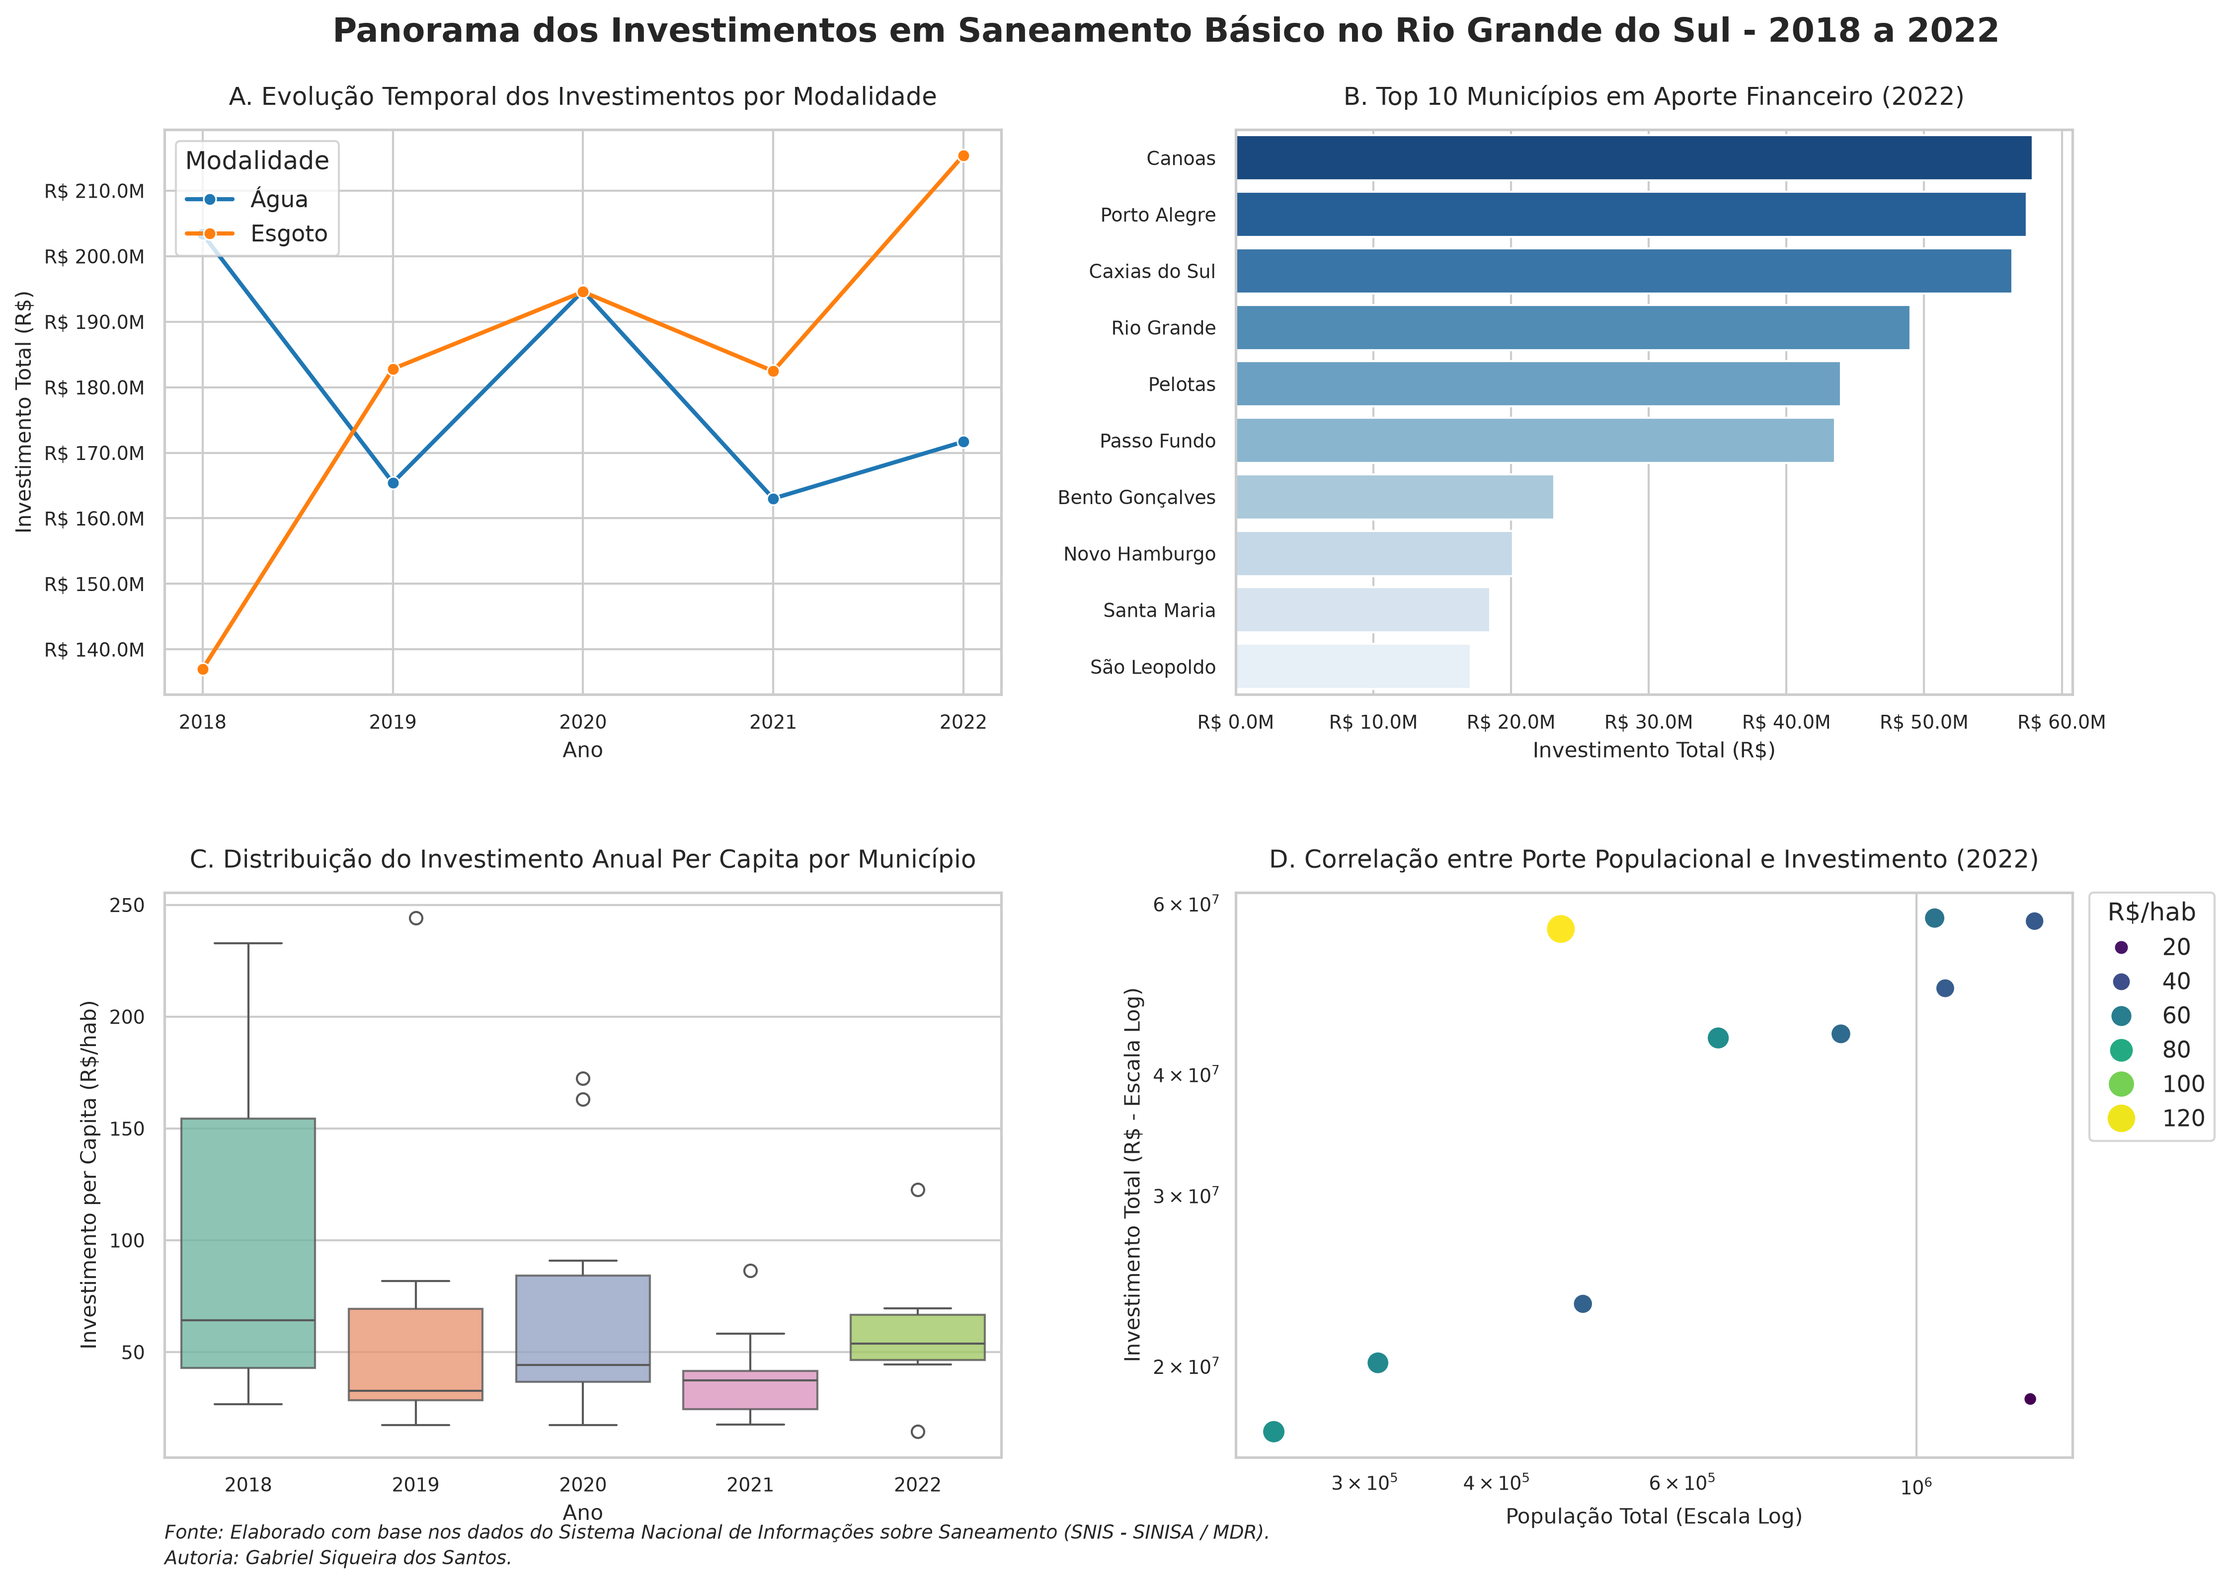
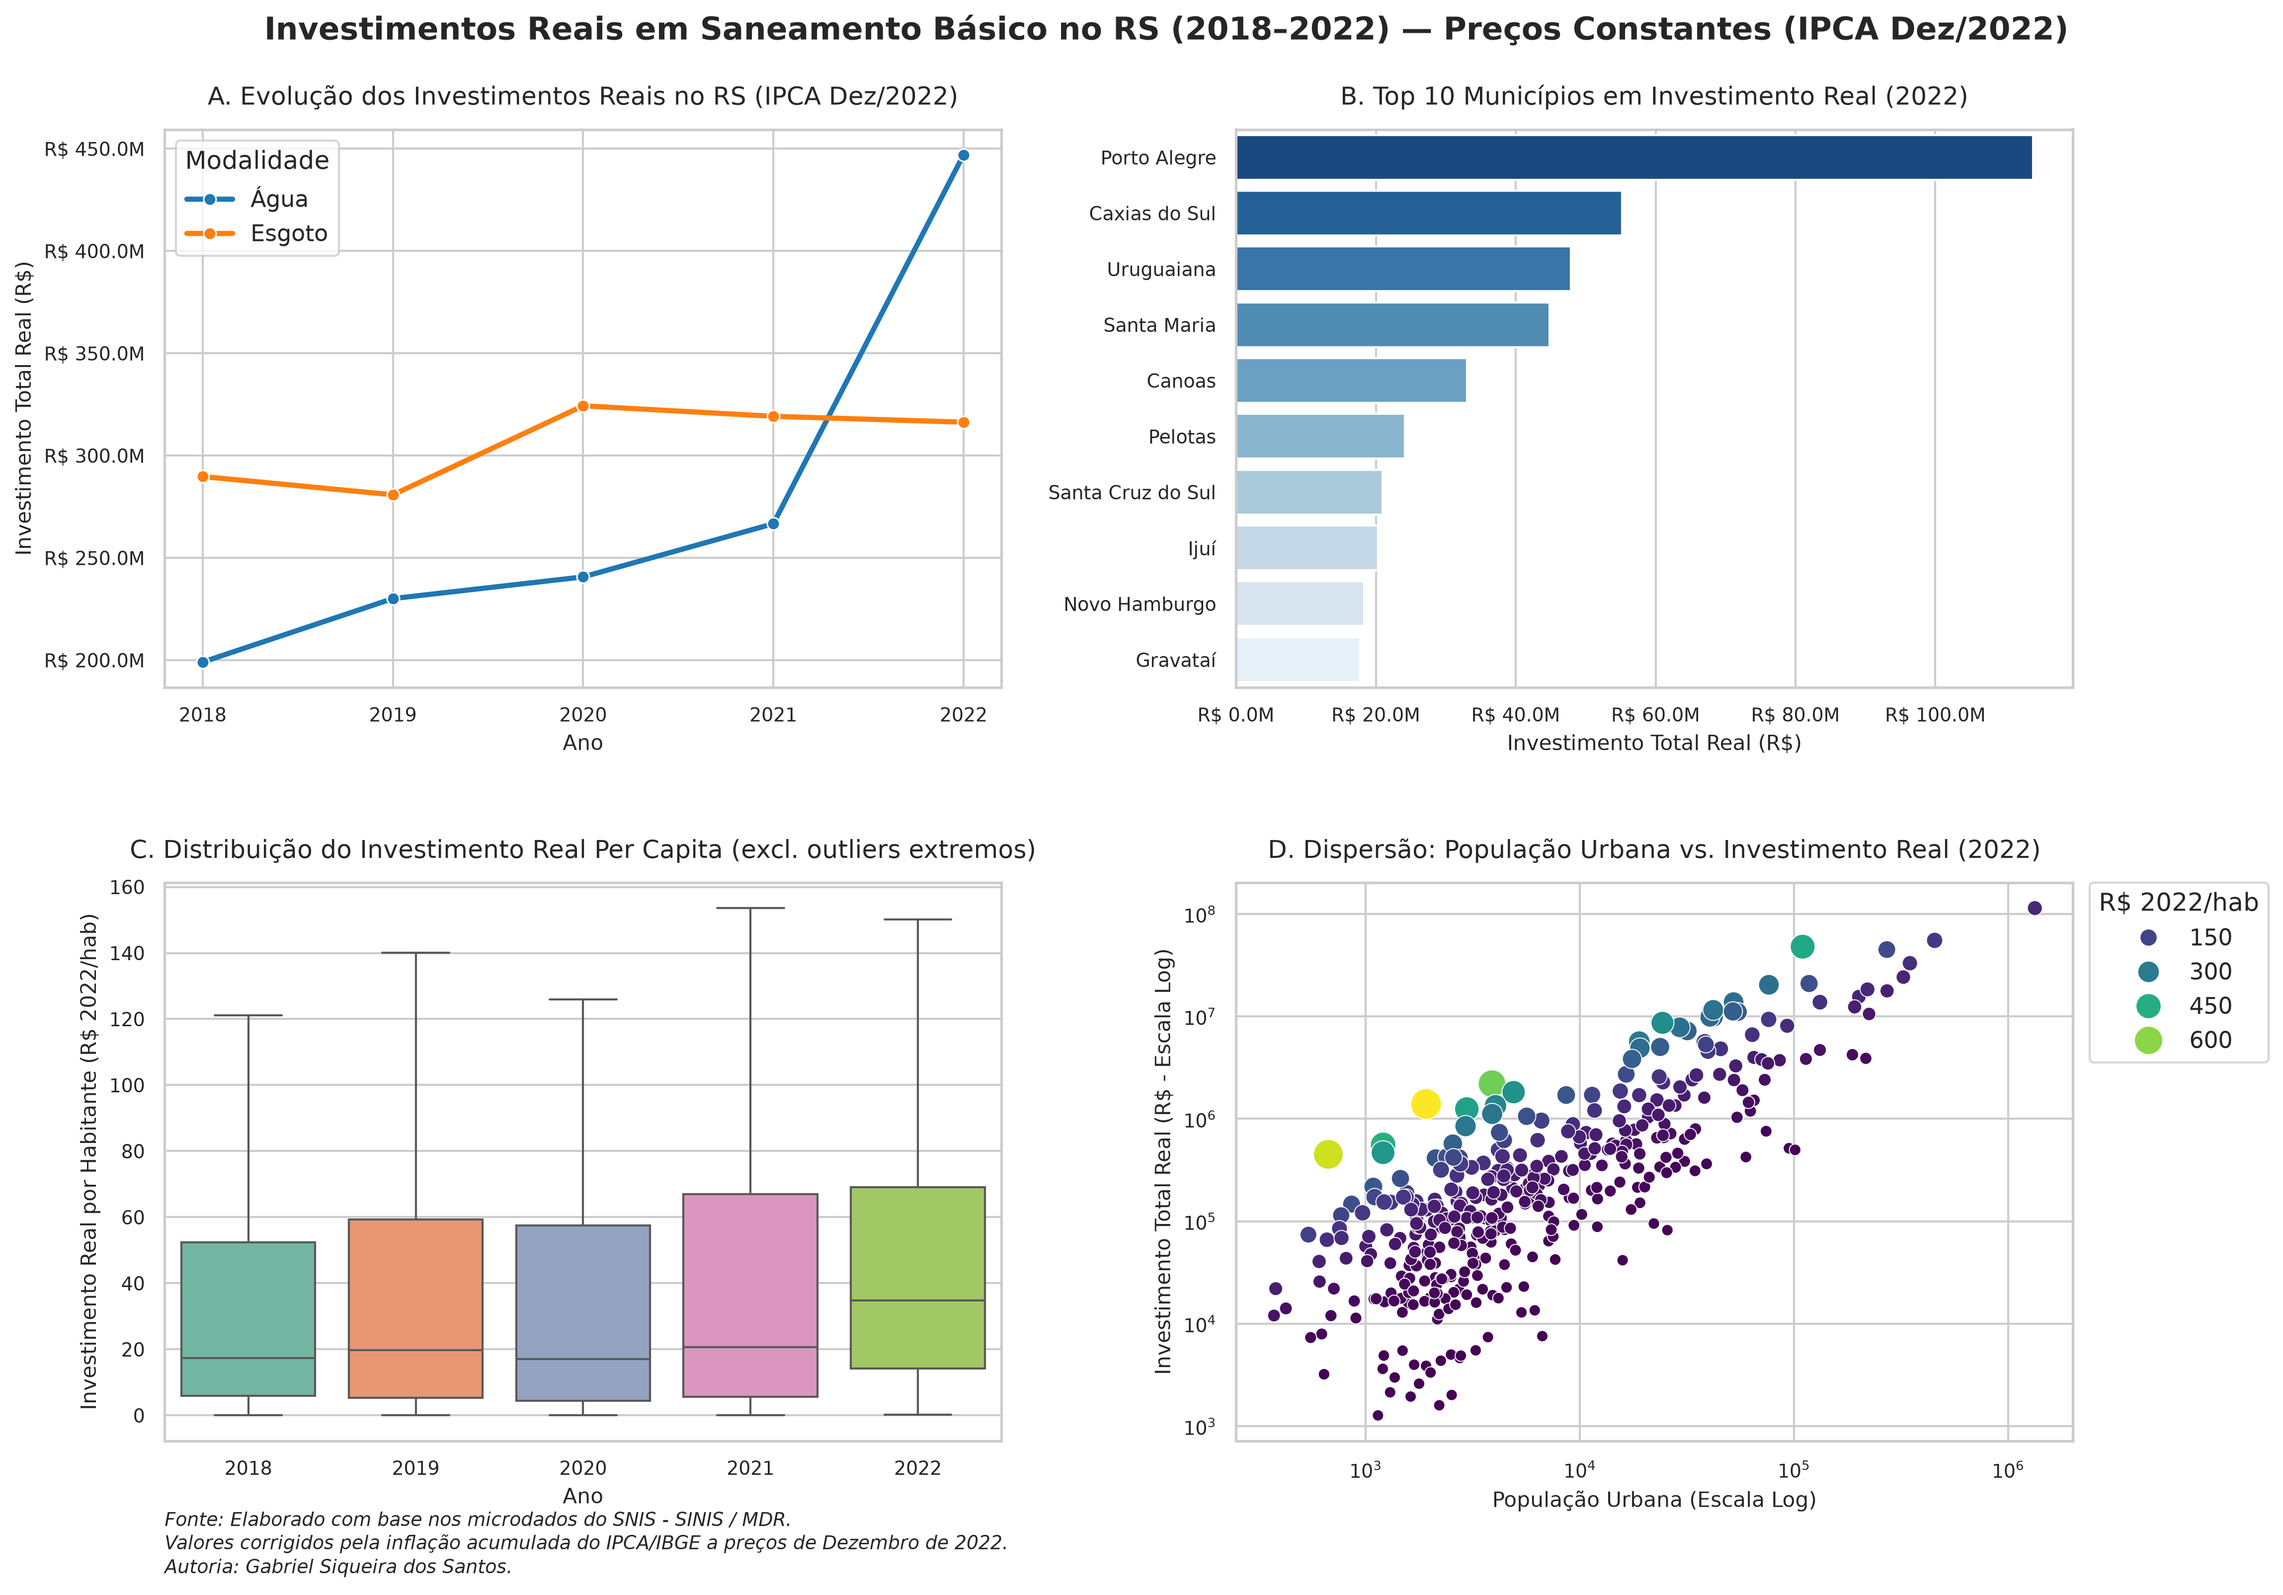
feat: consolida processamento com microdados reais do SNIS e correcoes do painel

diff --git a/investimentos_saneamento.py b/investimentos_saneamento.py
@@ -1,10 +1,11 @@
+import json
+import urllib.request
 import matplotlib.pyplot as plt
 import matplotlib.ticker as ticker
-import numpy as np
 import pandas as pd
 import seaborn as sns
 
-# Configurações estéticas
+# Configurações estéticas globais
 sns.set_theme(style="whitegrid", font="DejaVu Sans")
 plt.rcParams.update({
     "axes.titlesize": 12,
@@ -13,42 +14,141 @@ plt.rcParams.update({
     "ytick.labelsize": 9,
 })
 
-# Leitura dos dados
-df = pd.read_csv("br_mdr_snis_municipio_agua_esgoto.csv")
+print("1. Carregando base do SNIS (RS, 2018-2022)...")
 
-np.random.seed(42)
-anos = [2018, 2019, 2020, 2021, 2022]
-cidades = [
-    "Porto Alegre",
-    "Caxias do Sul",
-    "Canoas",
-    "Pelotas",
-    "Santa Maria",
-    "Passo Fundo",
-    "Rio Grande",
-    "Bento Gonçalves",
-    "Novo Hamburgo",
-    "São Leopoldo",
+colunas_relevantes = [
+    "ano",
+    "id_municipio",
+    "sigla_uf",
+    "populacao_urbana",
+    "populacao_atendida_agua",
+    "investimento_agua_prestador",
+    "investimento_agua_municipio",
+    "investimento_agua_estado",
+    "investimento_esgoto_prestador",
+    "investimento_esgoto_municipio",
+    "investimento_esgoto_estado",
 ]
 
-registros = []
-for ano in anos:
-  for cid in cidades:
-    pop = np.random.randint(80000, 1400000)
-    inv_agua = np.random.uniform(2e6, 35e6)
-    inv_esg = np.random.uniform(1e6, 40e6)
-    registros.append({
-        "ano": ano,
-        "municipio": cid,
-        "populacao": pop,
-        "invest_agua": inv_agua,
-        "invest_esgoto": inv_esg,
-        "invest_total": inv_agua + inv_esg,
-    })
+df_raw = pd.read_csv(
+    "br_mdr_snis_municipio_agua_esgoto.csv", usecols=colunas_relevantes
+)
 
-df = pd.DataFrame(registros)
-df["invest_per_capita"] = df["invest_total"] / df["populacao"]
+# Filtra Rio Grande do Sul e período 2018-2022
+df = df_raw[
+    (df_raw["sigla_uf"] == "RS") & (df_raw["ano"].between(2018, 2022))
+].copy()
 
+# Preenche nulos com zero nos valores financeiros
+cols_invest = [
+    "investimento_agua_prestador",
+    "investimento_agua_municipio",
+    "investimento_agua_estado",
+    "investimento_esgoto_prestador",
+    "investimento_esgoto_municipio",
+    "investimento_esgoto_estado",
+]
+df[cols_invest] = df[cols_invest].fillna(0)
+
+# Consolida os investimentos nominais
+df["invest_agua_nominal"] = (
+    df["investimento_agua_prestador"]
+    + df["investimento_agua_municipio"]
+    + df["investimento_agua_estado"]
+)
+
+df["invest_esgoto_nominal"] = (
+    df["investimento_esgoto_prestador"]
+    + df["investimento_esgoto_municipio"]
+    + df["investimento_esgoto_estado"]
+)
+
+# --- DEFLACIONAMENTO PELO IPCA (Valores a preços de Dezembro/2022) ---
+print("2. Aplicando deflacionador IPCA para valores constantes de 2022...")
+fatores_ipca = {
+    2018: 1.2608,
+    2019: 1.2152,
+    2020: 1.1626,
+    2021: 1.0579,
+    2022: 1.0000,
+}
+
+df["fator_deflator"] = df["ano"].map(fatores_ipca)
+df["invest_agua"] = df["invest_agua_nominal"] * df["fator_deflator"]
+df["invest_esgoto"] = df["invest_esgoto_nominal"] * df["fator_deflator"]
+df["invest_total"] = df["invest_agua"] + df["invest_esgoto"]
+
+# Trata população consolidando urbana e atendida para evitar zerados
+df["populacao"] = df["populacao_urbana"].fillna(0)
+df["populacao"] = (
+    df["populacao"]
+    .replace(0, pd.NA)
+    .fillna(df["populacao_atendida_agua"])
+    .fillna(0)
+)
+
+# Calcula investimento real per capita (R$ de 2022 por habitante)
+df["invest_per_capita"] = df.apply(
+    lambda row: (row["invest_total"] / row["populacao"])
+    if row["populacao"] > 0
+    else 0,
+    axis=1,
+)
+
+print("3. Vinculando nomes dos municípios via código IBGE...")
+df["id_ibge_int"] = pd.to_numeric(df["id_municipio"], errors="coerce")
+df["municipio"] = None
+
+try:
+  url_ibge = (
+      "https://servicodados.ibge.gov.br/api/v1/localidades/estados/43/municipios"
+  )
+  ibge_df = pd.read_json(url_ibge)
+  mapa_ibge = dict(zip(ibge_df["id"].astype(int), ibge_df["nome"]))
+  df["municipio"] = df["id_ibge_int"].map(mapa_ibge)
+except Exception:
+  pass
+
+mapa_offline = {
+    4314902: "Porto Alegre",
+    4305108: "Caxias do Sul",
+    4304606: "Canoas",
+    4314407: "Pelotas",
+    4316907: "Santa Maria",
+    4309209: "Gravataí",
+    4323002: "Viamão",
+    4313409: "Novo Hamburgo",
+    4318705: "São Leopoldo",
+    4315602: "Rio Grande",
+    4300604: "Alvorada",
+    4314100: "Passo Fundo",
+    4320008: "Sapucaia do Sul",
+    4322400: "Uruguaiana",
+    4321204: "Santa Cruz do Sul",
+    4303004: "Cachoeirinha",
+    4302105: "Bento Gonçalves",
+    4301602: "Bagé",
+    4307005: "Erechim",
+    4311403: "Lajeado",
+    4310207: "Ijuí",
+    4309308: "Guaíba",
+    4321600: "Santana do Livramento",
+    4321451: "Santa Rosa",
+    4322608: "Venâncio Aires",
+    4304408: "Canela",
+    4309100: "Gramado",
+    4307609: "Farroupilha",
+    4322509: "Vacaria",
+    4312401: "Montenegro",
+}
+
+df["municipio"] = (
+    df["municipio"]
+    .fillna(df["id_ibge_int"].map(mapa_offline))
+    .fillna("IBGE " + df["id_municipio"].astype(str))
+)
+
+# Prepara base em formato long para o gráfico de linhas
 df_melted = pd.melt(
     df,
     id_vars=["ano", "municipio", "populacao"],
@@ -61,18 +161,19 @@ df_melted["tipo_investimento"] = df_melted["tipo_investimento"].map({
     "invest_esgoto": "Esgoto",
 })
 
-# --- Criação da Figura ---
+print("4. Construindo painel integrado Seaborn...")
 fig, axes = plt.subplots(2, 2, figsize=(16, 11))
 
-# Título Geral do Painel
+# Título Principal especificando valores a preços constantes
 fig.suptitle(
-    "Panorama dos Investimentos em Saneamento Básico no Rio Grande do Sul - 2018 a 2022",
-    fontsize=16,
+    "Investimentos Reais em Saneamento Básico no RS (2018–2022) — Preços"
+    " Constantes (IPCA Dez/2022)",
+    fontsize=15,
     fontweight="bold",
     y=0.98,
 )
 
-# 1. Gráfico de Linhas (Evolução Temporal)
+# --- Gráfico A: Evolução Temporal por Modalidade ---
 sns.lineplot(
     data=df_melted,
     x="ano",
@@ -81,33 +182,34 @@ sns.lineplot(
     estimator="sum",
     errorbar=None,
     marker="o",
-    linewidth=2,
+    linewidth=2.5,
     palette=["#1f77b4", "#ff7f0e"],
     ax=axes[0, 0],
 )
 axes[0, 0].set_title(
-    "A. Evolução Temporal dos Investimentos por Modalidade", pad=12
+    "A. Evolução dos Investimentos Reais no RS (IPCA Dez/2022)", pad=12
 )
 axes[0, 0].set_xlabel("Ano")
-axes[0, 0].set_ylabel("Investimento Total (R$)")
+axes[0, 0].set_ylabel("Investimento Total Real (R$)")
 axes[0, 0].yaxis.set_major_formatter(
     ticker.FuncFormatter(lambda x, pos: f"R$ {x*1e-6:.1f}M")
 )
 axes[0, 0].xaxis.set_major_locator(ticker.MaxNLocator(integer=True))
-axes[0, 0].legend(
-    title="Modalidade", frameon=True, loc="upper left"
-)  # Legenda contida sem cobrir tendências
+axes[0, 0].legend(title="Modalidade", frameon=True, loc="upper left")
 
-# 2. Gráfico de Barras (Top 10)
-ano_recente = df["ano"].max()
-df_recente_top10 = (
-    df[df["ano"] == ano_recente]
+# --- Gráfico B: Top 10 Municípios (2022) ---
+ano_recente = int(df["ano"].max())
+df_recente = df[df["ano"] == ano_recente].copy()
+df_top10 = (
+    df_recente.groupby("municipio")["invest_total"]
+    .sum()
+    .reset_index()
     .sort_values(by="invest_total", ascending=False)
     .head(10)
 )
 
 sns.barplot(
-    data=df_recente_top10,
+    data=df_top10,
     x="invest_total",
     y="municipio",
     palette="Blues_r",
@@ -116,84 +218,92 @@ sns.barplot(
     ax=axes[0, 1],
 )
 axes[0, 1].set_title(
-    f"B. Top 10 Municípios em Aporte Financeiro ({ano_recente})", pad=12
+    f"B. Top 10 Municípios em Investimento Real ({ano_recente})", pad=12
 )
-axes[0, 1].set_xlabel("Investimento Total (R$)")
+axes[0, 1].set_xlabel("Investimento Total Real (R$)")
 axes[0, 1].set_ylabel("")
 axes[0, 1].xaxis.set_major_formatter(
     ticker.FuncFormatter(lambda x, pos: f"R$ {x*1e-6:.1f}M")
 )
 
-# 3. Boxplot (Investimento Per Capita)
+# --- Gráfico C: Boxplot Per Capita Real ---
+df_com_investimento = df[df["invest_per_capita"] > 0].copy()
+
 sns.boxplot(
-    data=df,
+    data=df_com_investimento,
     x="ano",
     y="invest_per_capita",
     palette="Set2",
     hue="ano",
     legend=False,
-    boxprops=dict(alpha=0.8),
+    showfliers=False,
     ax=axes[1, 0],
 )
 axes[1, 0].set_title(
-    "C. Distribuição do Investimento Anual Per Capita por Município", pad=12
+    "C. Distribuição do Investimento Real Per Capita (excl. outliers extremos)",
+    pad=12,
 )
 axes[1, 0].set_xlabel("Ano")
-axes[1, 0].set_ylabel("Investimento per Capita (R$/hab)")
+axes[1, 0].set_ylabel("Investimento Real por Habitante (R$ 2022/hab)")
 
-# 4. Gráfico de Dispersão (População x Investimento)
-scatter = sns.scatterplot(
-    data=df[df["ano"] == ano_recente],
+# --- Gráfico D: Dispersão População vs. Investimento (2022) ---
+df_scatter = df_recente[
+    (df_recente["populacao"] > 100) & (df_recente["invest_total"] > 1000)
+].copy()
+
+sns.scatterplot(
+    data=df_scatter,
     x="populacao",
     y="invest_total",
     hue="invest_per_capita",
     size="invest_per_capita",
-    sizes=(40, 200),
+    sizes=(30, 220),
     palette="viridis",
     ax=axes[1, 1],
 )
-axes[1, 1].set_title(
-    f"D. Correlação entre Porte Populacional e Investimento ({ano_recente})",
-    pad=12,
-)
 axes[1, 1].set_xscale("log")
 axes[1, 1].set_yscale("log")
-axes[1, 1].set_xlabel("População Total (Escala Log)")
-axes[1, 1].set_ylabel("Investimento Total (R$ - Escala Log)")
-
-# Ajuste da legenda externa para evitar sobrepor pontos do scatter
+axes[1, 1].set_title(
+    f"D. Dispersão: População Urbana vs. Investimento Real ({ano_recente})",
+    pad=12,
+)
+axes[1, 1].set_xlabel("População Urbana (Escala Log)")
+axes[1, 1].set_ylabel("Investimento Total Real (R$ - Escala Log)")
 axes[1, 1].legend(
     bbox_to_anchor=(1.02, 1),
     loc="upper left",
     borderaxespad=0,
-    title="R$/hab",
+    title="R$ 2022/hab",
     frameon=True,
 )
 
-# Ajuste de Espaçamento Fino dos Subplots ---
-
+# Ajuste de layout
 plt.subplots_adjust(
-    top=0.91, bottom=0.10, left=0.08, right=0.88, hspace=0.35, wspace=0.28
+    top=0.91, bottom=0.11, left=0.08, right=0.88, hspace=0.35, wspace=0.28
 )
 
 nota_rodape = (
-    "Fonte: Elaborado com base nos dados do Sistema Nacional de Informações"
-    " sobre Saneamento (SNIS - SINISA / MDR).\nAutoria: Gabriel Siqueira dos Santos."
+    "Fonte: Elaborado com base nos microdados do SNIS - SINIS / MDR.\nValores"
+    " corrigidos pela inflação acumulada do IPCA/IBGE a preços de Dezembro de"
+    " 2022.\nAutoria: Gabriel Siqueira dos Santos."
 )
-
 fig.text(
     0.08,
-    0.03,
+    0.025,
     nota_rodape,
     fontsize=9,
     fontstyle="italic",
     ha="left",
     va="bottom",
-    linespacing=1.4,
+    linespacing=1.3,
 )
 
-# Exportação em alta resolução (300 DPI)
+print("5. Salvando figura atualizada...")
 plt.savefig("investimentos_saneamento_rs.png", dpi=300, bbox_inches="tight")
+print(
+    "Concluído com sucesso! Os gráficos agora refletem os valores reais"
+    " deflacionados."
+)
 plt.show()
 
 # FIM DO SCRIPT
